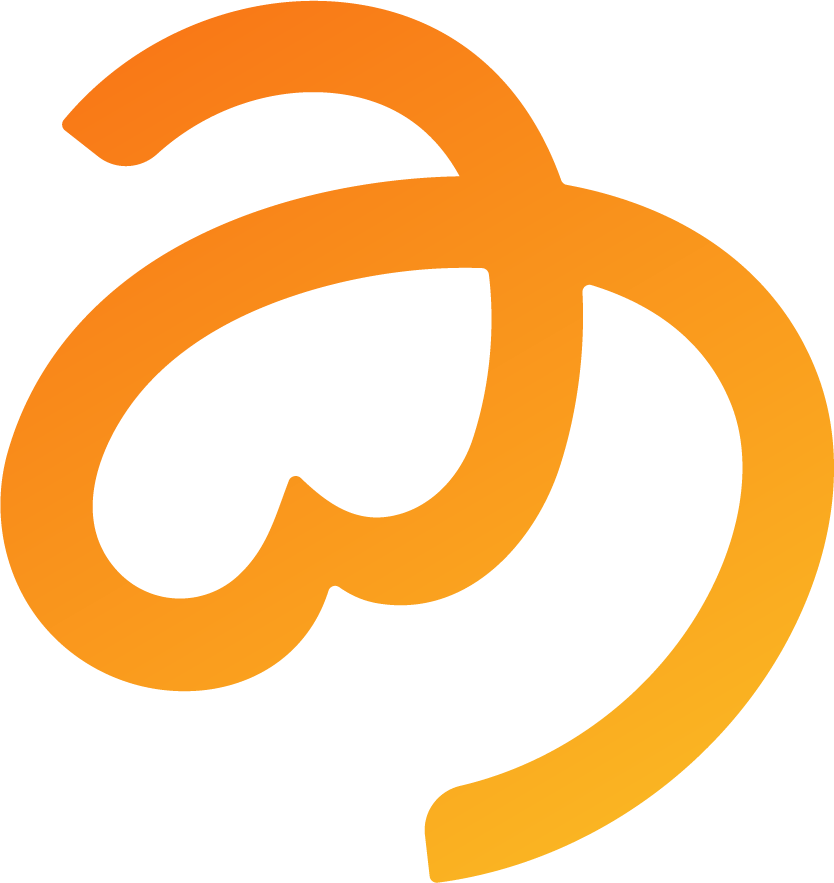
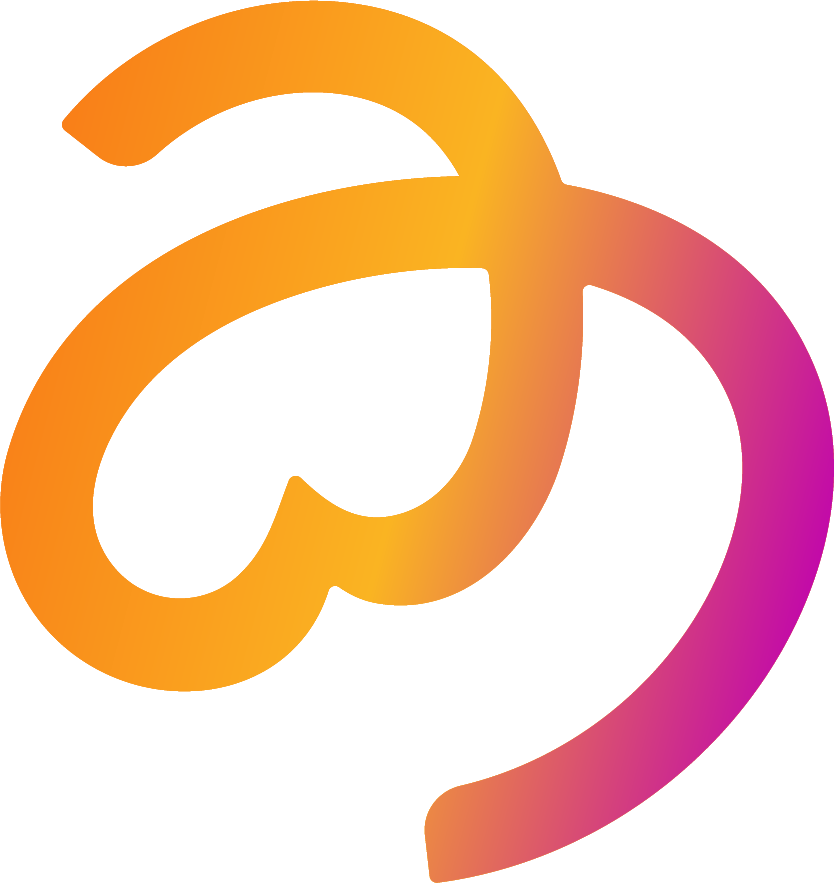
make website color gradient as with dynamic gradient with #F97917,#FAB42

Changed region(s): [[0.2806, 0.0, 1.0, 1.0]]

diff --git a/src/app/globals.css b/src/app/globals.css
@@ -11,22 +11,22 @@
     --card-foreground: 240 10% 3.9%;
     --popover: 0 0% 100%;
     --popover-foreground: 240 10% 3.9%;
-    --primary: 45 95% 55%;
+    --primary: 28 95% 53%;
     --primary-foreground: 60 9.1% 97.8%;
     --secondary: 240 4.8% 95.9%;
     --secondary-foreground: 240 5.9% 10%;
     --muted: 240 4.8% 95.9%;
     --muted-foreground: 240 3.8% 46.1%;
-    --accent: 30 95% 55%;
-    --accent-foreground: 0 0% 100%;
+    --accent: 42 96% 55%;
+    --accent-foreground: 240 10% 3.9%;
     --destructive: 0 84.2% 60.2%;
     --destructive-foreground: 60 9.1% 97.8%;
     --border: 240 5.9% 90%;
     --input: 240 5.9% 90%;
-    --ring: 45 95% 55%;
-    --chart-1: 45 95% 55%;
-    --chart-2: 30 95% 55%;
-    --chart-3: 45 95% 65%;
+    --ring: 28 95% 53%;
+    --chart-1: 28 95% 53%;
+    --chart-2: 42 96% 55%;
+    --chart-3: 306 100% 37%;
     --chart-4: 30 95% 65%;
     --chart-5: 45 90% 50%;
     --radius: 0.8rem;
@@ -34,9 +34,9 @@
     --sidebar: 240 4.8% 95.9%;
     --sidebar-foreground: 240 5.9% 10%;
     --sidebar-border: 240 5.9% 90%;
-    --sidebar-accent: 45 95% 55%;
+    --sidebar-accent: 28 95% 53%;
     --sidebar-accent-foreground: 60 9.1% 97.8%;
-    --sidebar-ring: 45 95% 55%;
+    --sidebar-ring: 28 95% 53%;
   }
   .dark {
     --background: 240 10% 3.9%;
@@ -45,31 +45,31 @@
     --card-foreground: 60 9.1% 97.8%;
     --popover: 240 10% 3.9%;
     --popover-foreground: 60 9.1% 97.8%;
-    --primary: 45 95% 55%;
-    --primary-foreground: 240 10% 3.9%;
+    --primary: 28 95% 53%;
+    --primary-foreground: 60 9.1% 97.8%;
     --secondary: 240 3.7% 15.9%;
     --secondary-foreground: 60 9.1% 97.8%;
     --muted: 240 3.7% 15.9%;
     --muted-foreground: 240 5% 64.9%;
-    --accent: 30 95% 55%;
-    --accent-foreground: 0 0% 100%;
+    --accent: 42 96% 55%;
+    --accent-foreground: 240 10% 3.9%;
     --destructive: 0 62.8% 30.6%;
     --destructive-foreground: 60 9.1% 97.8%;
     --border: 240 3.7% 15.9%;
     --input: 240 3.7% 15.9%;
-    --ring: 45 95% 55%;
-    --chart-1: 45 95% 55%;
-    --chart-2: 30 95% 55%;
-    --chart-3: 45 95% 65%;
+    --ring: 28 95% 53%;
+    --chart-1: 28 95% 53%;
+    --chart-2: 42 96% 55%;
+    --chart-3: 306 100% 37%;
     --chart-4: 30 95% 65%;
     --chart-5: 45 90% 50%;
 
     --sidebar: 240 3.7% 15.9%;
     --sidebar-foreground: 60 9.1% 97.8%;
     --sidebar-border: 240 3.7% 15.9%;
-    --sidebar-accent: 45 95% 55%;
-    --sidebar-accent-foreground: 240 10% 3.9%;
-    --sidebar-ring: 45 95% 55%;
+    --sidebar-accent: 28 95% 53%;
+    --sidebar-accent-foreground: 60 9.1% 97.8%;
+    --sidebar-ring: 28 95% 53%;
   }
 }
 
